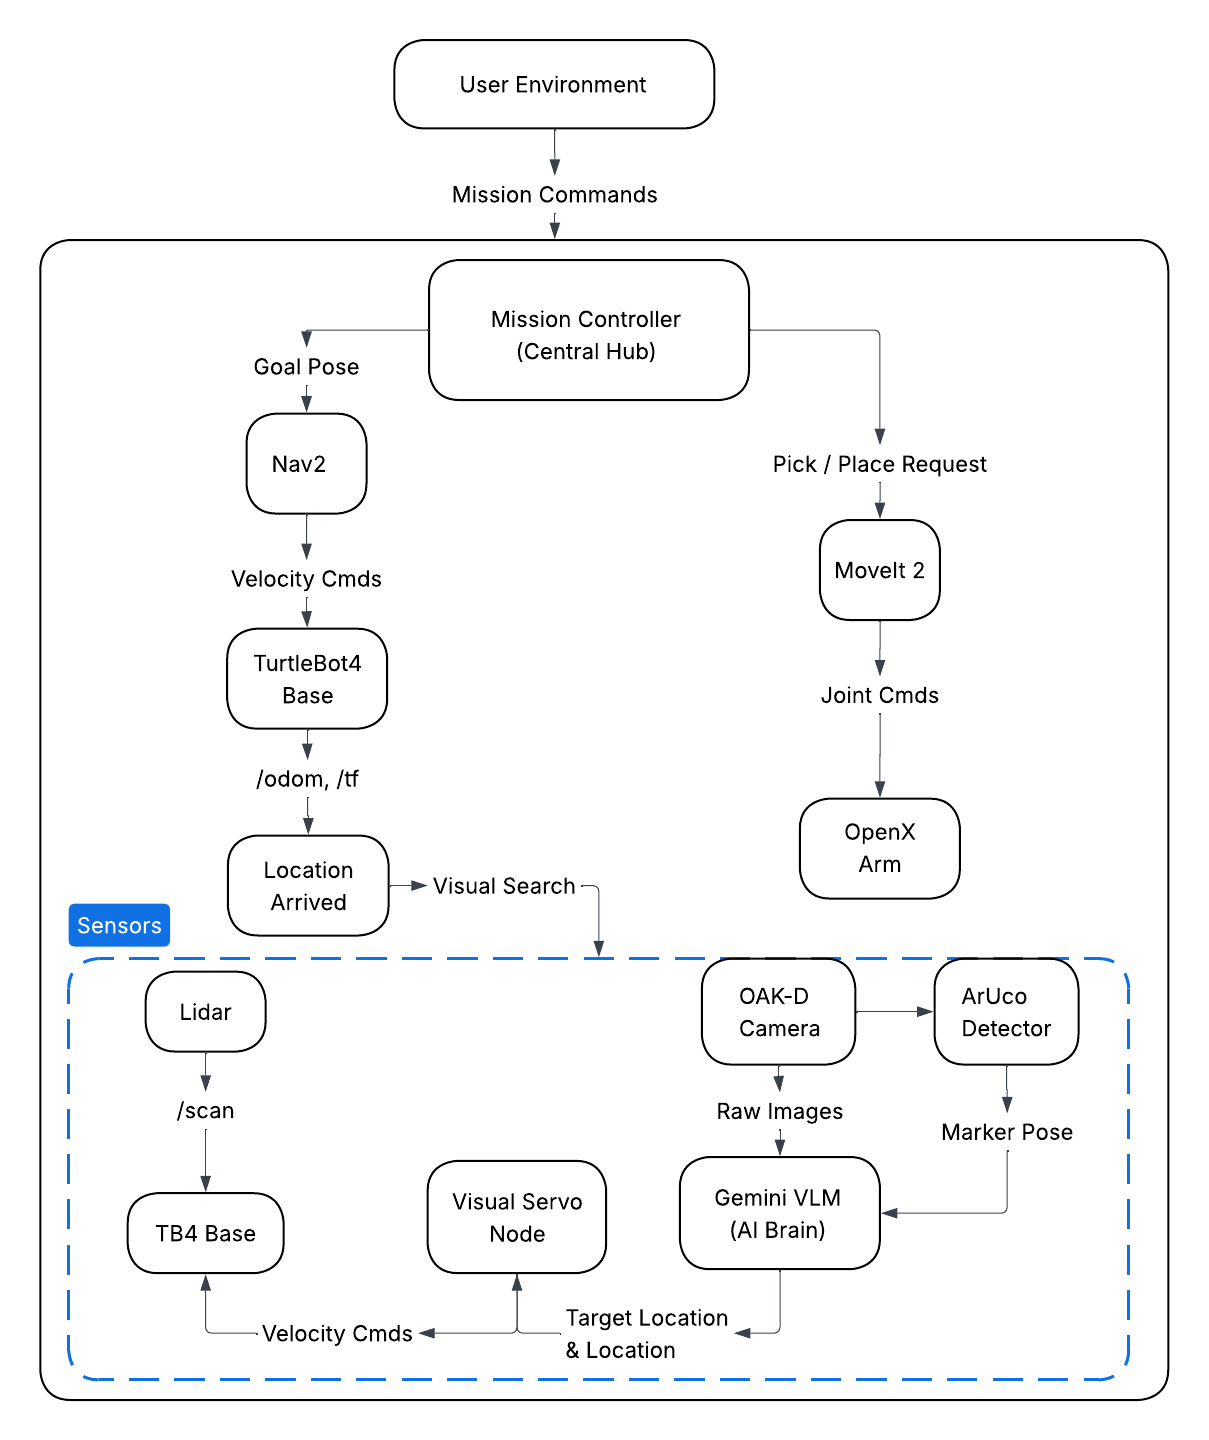
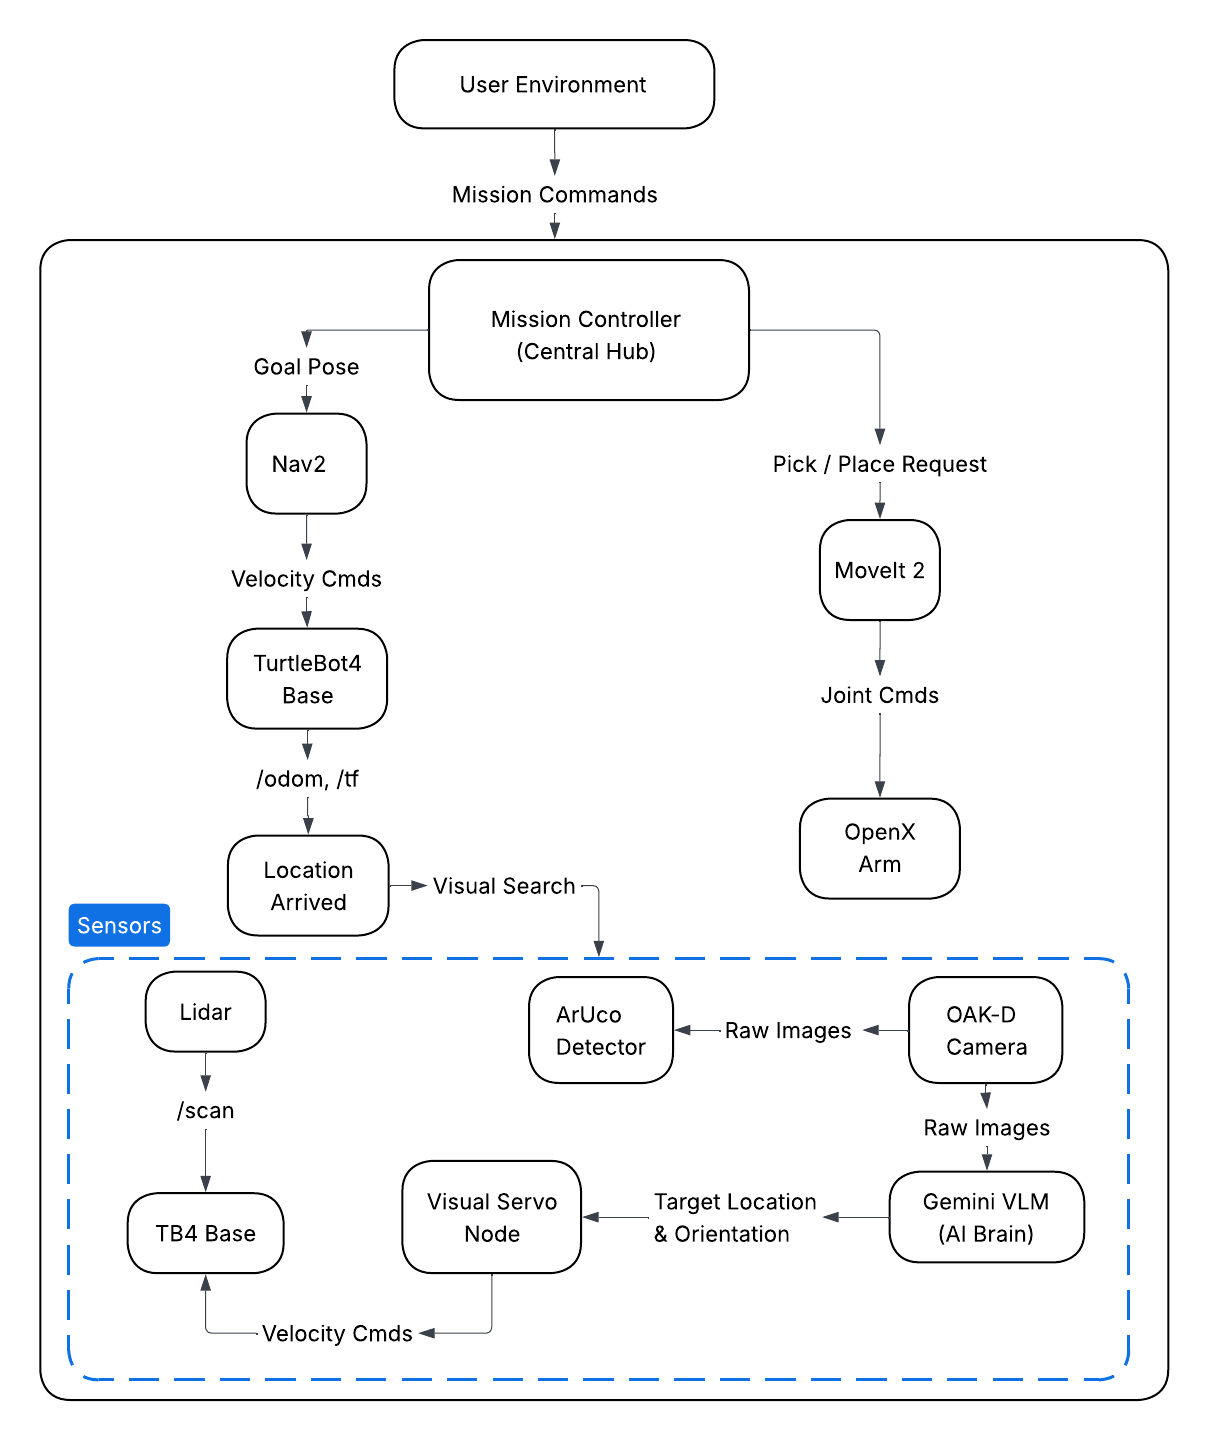
changes in md files

diff --git a/docs/index.md b/docs/index.md
@@ -1,21 +1,50 @@
-#  Autonomous Object Retrieval Project
+# Autonomous Object Retrieval Project
 
-Welcome to the official documentation for our autonomous warehouse retrieval system. This project bridges advanced mobile navigation, robotic manipulation, and Vision-Language Models (VLMs) to create a fully autonomous robotic worker.
+Welcome to the official documentation for our autonomous warehouse retrieval 
+system. This project bridges advanced mobile navigation, robotic manipulation, 
+and Vision-Language Models (VLMs) to create a fully autonomous robotic worker.
 
 ---
 
-## Robot background
-The TurtleBot 4 is the next-generation ROS 2 educational and research robot. Built on the highly capable iRobot Create 3 mobile base, it is equipped with an array of sensors including an RPLidar and an OAK-D PRO spatial AI camera. It provides a robust, out-of-the-box platform for developing advanced SLAM, navigation, and computer vision applications.
+## Platform Overview
 
-## Project Details: VLM-Driven Warehouse Retrieval
+The TurtleBot 4 is the next-generation ROS 2 educational and research robot. 
+Built on the iRobot Create 3 mobile base, it features:
+
+- **RPLidar A1M8:** 2D laser scanner for SLAM and obstacle avoidance
+- **OAK-D Pro:** Spatial AI stereo camera for RGB-D perception
+- **IMU & Wheel Encoders:** For accurate odometry
+
+Our project extends this platform with:
+
+- **OpenManipulator-X:** 4-DOF robotic arm for object manipulation
+- **Google Gemini VLM:** Vision-Language Model for intelligent object recognition
+
+---
+
+## System Requirements
+
+| Component | Version |
+|-----------|---------|
+| Ubuntu | 22.04 LTS |
+| ROS 2 | Humble Hawksbill |
+| Python | 3.10+ |
+| MoveIt 2 | Humble |
+| Gazebo | Ignition Fortress |
+
+---
+
+## Mission Pipeline
+
 Our project elevates the standard TurtleBot 4 by integrating it with an OpenManipulator-X robotic arm and the Google Gemini Vision-Language Model (VLM). 
 
 We have engineered an autonomous pipeline for object retrieval within a simulated warehouse environment. The system operates in the following sequence:
 
-1. **Intelligence & Dispatch:** The Gemini VLM analyzes the environment or user request to identify which specific object needs to be retrieved. 
-2. **Transit:** The robot utilizes the Nav2 stack to autonomously navigate to the designated warehouse zone.
-3. **Perception & Grasping:** Upon arrival, the robot scans the area for the target item. Using a custom visual servoing pipeline, it aligns itself and uses the OpenManipulator-X arm to pick up the object.
-4. **Return & Drop-off:** The robot calculates a path back to its "Home" base and safely deposits the retrieved item.
+1. **Dispatch:** User issues a retrieval command specifying the target zone.
+2. **Transit:** Robot navigates to the designated warehouse zone using Nav2.
+3. **Intelligence & Perception:** Upon arrival, the Gemini VLM analyzes camera feed to identify and locate the target object.
+4. **Alignment & Grasping:** Visual servoing aligns the robot, then OpenManipulator-X picks the object.
+5. **Return & Drop-off:** Robot navigates home and deposits the item.
 
 ---
 
@@ -60,53 +89,60 @@ colcon build
 source install/setup.bash
 ```
 
-### 2. Run Robot in Simulation
+### 2. Simulation Setup
 Ensure your workspace is fully built and sourced before launching any nodes:
 ```bash
-Terminal 1: 
+Terminal 1 - Gazebo Simulation:
 ros2 launch tb4_openx_sim gazebo_sim.launch.py
 
 *** Wait for all controllers to load
 
-Terminal 2: 
+Terminal 2 - Navigation Stack:
 ros2 launch tb4_openx_navigation navigate.launch.py
 
-*** Estimate the Location of the Robot using 2D Pose
+*** Open RViz, click "2D Pose Estimate" button, then click and drag on the map 
+to set the robot's initial position and orientation.
 
-Terminal 3: 
+Terminal 3 - MoveIt 2:
 ros2 launch tb4_openx_manipulation move_group.launch.py
 
-Terminal 4: 
+Terminal 4 - Manipulation Pipeline:
 ros2 launch tb4_openx_manipulation manipulation_pipeline.launch.py
 
-Terminal 5: 
+Terminal 5 - Mission Controller:
 ros2 run tb4_openx_navigation mission_controller.py
 
 
 ```
 
-### 1. Install Dependencies
+### 3. Real Robot Setup
 Ensure your workspace is fully built and sourced before launching any nodes:
 ```bash
 
-Terminal 1: 
+Terminal 1 - TurtleBot 4 Bringup (on robot):
 ros2 launch turtlebot4_bringup standard.launch.py
 
 *** Ensure the you saved your Map correct and all the ros2 topic from 
 TB4 is publishing on our PC
 
-Terminal 2: 
+Terminal 2 - Navigation Stack:
 ros2 launch tb4_openx_navigation real_navigate.launch.py
 
 *** Make sure Map is loaded and everthing is loaded 
 
-Terminal 3: 
+Terminal 3 - MoveIt 2:
 ros2 launch tb4_openx_manipulation move_group.launch.py use_sim:=false
 
-Terminal 4: 
+Terminal 4 - Manipulation Pipeline:
 ros2 launch tb4_openx_manipulation real_manipulation_pipeline.launch.py
 
-Terminal 5: 
+Terminal 5 - Mission Controller:
 ros2 run tb4_openx_navigation real_mission_controller.py
 
 ```
+
+### Authors
+
+* Dev Dipak Ghiya
+* Fazil Khan
+* Qingyuan Cao

diff --git a/docs/navigation.md b/docs/navigation.md
@@ -1,6 +1,6 @@
 # Navigation Architecture
 
-The navigation pipeline for the TurtleBot 4 OpenX project manages the complete mobility of the robot, from driving across the warehouse to making millimeter-level adjustments to pick up an object.
+The navigation pipeline for the TurtleBot 4 OpenX project manages the complete mobility of the robot, from driving across the user environment to making millimeter-level adjustments to pick up an object.
 
 ---
 
@@ -15,19 +15,20 @@ The robot controls its speed and direction strictly by varying the speed of thes
 
 ---
 
-## Dual-Level Navigation Overview
+## Overview
 To ensure both speed across long distances and extreme accuracy for the robotic arm, we split the navigation into two distinct phases:
 
-1. **High-Level (Macro) Navigation:** We use the Nav2 stack to handle driving from the home base to the general vicinity of the target object. It acts like the robot's GPS, getting it safely across the room while avoiding obstacles.
+1. **High-Level (Macro) Navigation:** We use the Nav2 stack to handle driving from the home base to the general vicinity of the target object. 
+
 2. **Low-Level (Micro) Navigation:** Once the robot reaches the target zone, standard navigation isn't accurate enough for a robotic arm to grab something. We switch to **Visual Servoing**, which uses the robot's camera to make tiny, precise wheel adjustments to perfectly align with the target.
 
 ---
 
 ## High-Level Planning (Macro-Navigation)
-Our high-level system relies on two main concepts to get the robot across the warehouse safely:
+Our high-level system relies on two main concepts to get the robot across the user environment safely:
 
 ### Localization (AMCL)
-Before the robot can move, it needs to know where it is. We provide the robot with a static 2D map of the warehouse. Using a technique called Adaptive Monte Carlo Localization (AMCL), the robot uses its laser scanner to look at the physical walls and obstacles around it, comparing what it sees to the map to constantly calculate its exact position and orientation.
+Before the robot can move, it needs to know where it is. We provide the robot with a static 2D map of the environment. Using a technique called Adaptive Monte Carlo Localization (AMCL), the robot uses its laser scanner to look at the physical walls and obstacles around it, comparing what it sees to the map to constantly calculate its exact position and orientation.
 
 ### The Nav2 Stack
 Once the robot knows where it is, it uses the Nav2 software stack to drive. 
@@ -39,9 +40,9 @@ Once the robot knows where it is, it uses the Nav2 software stack to drive.
 ---
 
 ## Low-Level Planning (Visual Servoing)
-Once Nav2 brings the robot to the correct warehouse zone, the system transitions to low-level planning to prepare for object retrieval. 
+Once Nav2 brings the robot to the correct environment zone, the system transitions to low-level planning to prepare for object retrieval. 
 
-**Visual Servoing** is a control method that directly links the robot's camera vision to its motor controls. Instead of driving blindly to a GPS coordinate, the robot uses its camera to actively look for the target marker (the ArTag). 
+**Visual Servoing** is a control method that directly links the robot's camera vision to its motor controls. Instead of driving blindly to a GPS coordinate, the robot uses its camera to actively look for the target marker (the ArUco tag).
 
 Once the marker is spotted, the visual servoing algorithm calculates exactly how far away the object is and how skewed the angle is. It then sends continuous, micro-adjustments to the differential drive wheels. The robot carefully stagger-steps—translating and rotating—until the marker is perfectly centered in the camera's view at the exact distance required for the OpenManipulator-X arm to reach it. 
 

diff --git a/docs/manipulation.md b/docs/manipulation.md
@@ -15,6 +15,20 @@ This is a lightweight, highly capable robotic arm designed specifically for rese
 
 ---
 
+## OpenManipulator-X Specifications
+
+| Specification | Value |
+|---------------|-------|
+| Degrees of Freedom | 4 DOF + Gripper |
+| Reach | 380mm |
+| Payload | 500g |
+| Actuators | DYNAMIXEL XM430-W350 |
+| Communication | U2D2 (USB to Dynamixel) |
+| Weight | 0.7 kg |
+| Repeatability | ±0.2mm |
+
+---
+
 ## Autonomous Pick and Place
 In this pipeline, the arm acts as the physical worker. Its job is broken down into a highly coordinated sequence that only triggers once the visual servoing system has perfectly aligned the robot base with the target.
 
@@ -28,7 +42,7 @@ When the mission controller requests a "Pick," MoveIt calculates the precise joi
 Once a safe trajectory is found, the arm executes the pick sequence:
 
 * **Extend:** The arm reaches out to the coordinates provided by the perception system.
-* **Grasp:** The parallel gripper closes around the ArTag block.
+* **Grasp:** The parallel gripper closes around the target object (identified by its ArUco marker).
 * **Tuck for Transit:** Instead of driving with the arm fully extended (which would shift the robot's center of gravity and cause navigation issues), the arm pulls the object back into a compact, safe "Home" position for the drive back.
 
 ### 3. The Place Sequence
@@ -43,3 +57,5 @@ Watch the OpenManipulator-X execute the precise pick sequence after the visual s
 <div style="text-align: center;">
   <iframe src="https://drive.google.com/file/d/1bfqER796fDf3-FT2vA-Rr2eJQVJ2wEo3/preview" width="640" height="480" allow="autoplay" allowfullscreen></iframe>
 </div>
+
+<!-- [![Manipulation Demo](assets/manipulation_thumbnail.png)](https://drive.google.com/file/d/1bfqER796fDf3-FT2vA-Rr2eJQVJ2wEo3/view) -->
